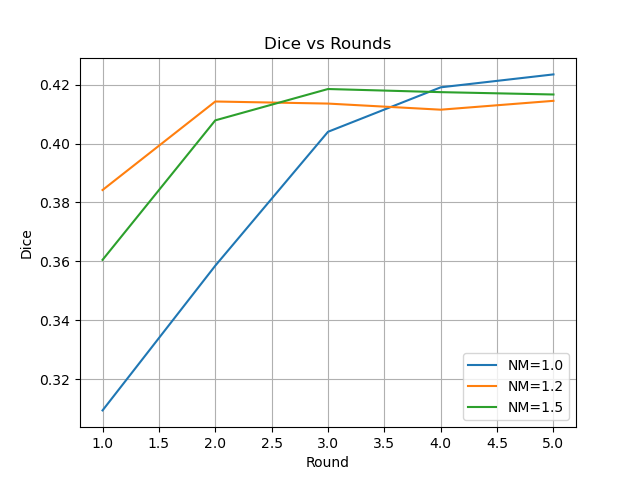
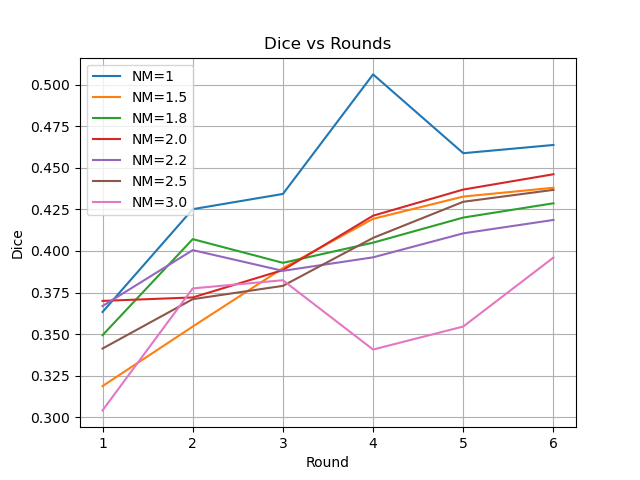
dp finie ?

diff --git a/dp_améliorée/client/client_1.py b/dp_améliorée/client/client_1.py
@@ -29,13 +29,14 @@ class DiceLoss(nn.Module):
 
 
 class FlowerClient(fl.client.NumPyClient):
-    def __init__(self,
-                 local_epochs=5,
-                 noise_multiplier=1.0,
-                 batch_size=8,
-                 max_grad_norm=0.8,
-                 lr=1e-3):
-
+    def __init__(
+        self,
+        local_epochs=1,
+        noise_multiplier=1.0,
+        batch_size=8,
+        max_grad_norm=0.8,
+        lr=1e-3
+    ):
         self.model = UNet().to(DEVICE)
 
         self.bce = nn.BCEWithLogitsLoss()
@@ -43,9 +44,9 @@ class FlowerClient(fl.client.NumPyClient):
         self.criterion = lambda p, t: 0.5 * self.bce(p, t) + 0.5 * self.dice_loss(p, t)
 
         self.train_dl, self.val_dl = get_dataloaders(
-            "multicenter/train/Dataset001_SierraLeone",
+            "multicenter/external/Dataset004_SierraLeone",
             batch_size=batch_size,
-            augment=False
+            augment=True
         )
 
         self.optimizer = optim.Adam(self.model.parameters(), lr=lr)
@@ -53,6 +54,7 @@ class FlowerClient(fl.client.NumPyClient):
             self.optimizer, mode='min', factor=0.5, patience=2, verbose=True
         )
 
+        # DP attributes
         self.privacy_engine = None
         self.dp_enabled = False
         self.noise_multiplier = noise_multiplier
@@ -69,11 +71,19 @@ class FlowerClient(fl.client.NumPyClient):
             p.data = torch.tensor(new, dtype=torch.float32).to(DEVICE)
 
     def fit(self, parameters, config):
+        # Récupération dynamique du noise_multiplier depuis le serveur
+        nm = config.get("noise_multiplier", self.noise_multiplier)
+        # Si le noise_multiplier a changé, réinitialiser la DP
+        if nm != self.noise_multiplier:
+            self.noise_multiplier = nm
+            self.dp_enabled = False
+
         self.set_parameters(parameters)
 
-        # Enable DP only once
+        # Activer DP si besoin
         if self.noise_multiplier > 0 and not self.dp_enabled:
-            self.model.train()  # Important for Opacus to insert hooks
+            self.model.train()  # Important pour Opacus
+            # (Ré)initialisation du PrivacyEngine avec le nouveau noise_multiplier
             self.privacy_engine = PrivacyEngine()
             self.model, self.optimizer, self.train_dl = self.privacy_engine.make_private(
                 module=self.model,
@@ -92,7 +102,7 @@ class FlowerClient(fl.client.NumPyClient):
 
         dice = evaluate(self.model, self.val_dl)
 
-        # ✅ Calcul correct d'ε sans redonner le sample_rate
+        # Calcul correct d'ε via l'accountant
         epsilon = (
             self.privacy_engine.accountant.get_epsilon(delta=1e-5)
             if self.privacy_engine else 0.0
@@ -114,10 +124,14 @@ class FlowerClient(fl.client.NumPyClient):
 
 if __name__ == "__main__":
     client = FlowerClient(
-        local_epochs=2,
-        noise_multiplier=1.0,   # à ajuster dynamiquement selon l'expérience
+        local_epochs=1,
+        noise_multiplier=1.0,   # Valeur par défaut
         batch_size=8,
         max_grad_norm=0.8,
         lr=1e-3,
     )
-    fl.client.start_client(server_address="localhost:8080", client=client.to_client())
+    try:
+        fl.client.start_client(server_address="localhost:8080", client=client.to_client())
+    except Exception as e:
+        print(f"[Client] Connection error: {e}")
+        sys.exit(1)

diff --git a/dp_améliorée/client/client_2.py b/dp_améliorée/client/client_2.py
@@ -29,13 +29,14 @@ class DiceLoss(nn.Module):
 
 
 class FlowerClient(fl.client.NumPyClient):
-    def __init__(self,
-                 local_epochs=5,
-                 noise_multiplier=1.0,
-                 batch_size=8,
-                 max_grad_norm=0.8,
-                 lr=1e-3):
-
+    def __init__(
+        self,
+        local_epochs=5,
+        noise_multiplier=1.0,
+        batch_size=8,
+        max_grad_norm=0.8,
+        lr=1e-3
+    ):
         self.model = UNet().to(DEVICE)
 
         self.bce = nn.BCEWithLogitsLoss()
@@ -53,6 +54,7 @@ class FlowerClient(fl.client.NumPyClient):
             self.optimizer, mode='min', factor=0.5, patience=2, verbose=True
         )
 
+        # DP attributes
         self.privacy_engine = None
         self.dp_enabled = False
         self.noise_multiplier = noise_multiplier
@@ -69,11 +71,19 @@ class FlowerClient(fl.client.NumPyClient):
             p.data = torch.tensor(new, dtype=torch.float32).to(DEVICE)
 
     def fit(self, parameters, config):
+        # Récupération dynamique du noise_multiplier depuis le serveur
+        nm = config.get("noise_multiplier", self.noise_multiplier)
+        # Si le noise_multiplier a changé, réinitialiser la DP
+        if nm != self.noise_multiplier:
+            self.noise_multiplier = nm
+            self.dp_enabled = False
+
         self.set_parameters(parameters)
 
-        # Enable DP only once
+        # Activer DP si besoin
         if self.noise_multiplier > 0 and not self.dp_enabled:
-            self.model.train()  # Important for Opacus to insert hooks
+            self.model.train()  # Important pour Opacus
+            # (Ré)initialisation du PrivacyEngine avec le nouveau noise_multiplier
             self.privacy_engine = PrivacyEngine()
             self.model, self.optimizer, self.train_dl = self.privacy_engine.make_private(
                 module=self.model,
@@ -92,7 +102,7 @@ class FlowerClient(fl.client.NumPyClient):
 
         dice = evaluate(self.model, self.val_dl)
 
-        # ✅ Calcul correct d'ε sans redonner le sample_rate
+        # Calcul correct d'ε via l'accountant
         epsilon = (
             self.privacy_engine.accountant.get_epsilon(delta=1e-5)
             if self.privacy_engine else 0.0
@@ -115,9 +125,13 @@ class FlowerClient(fl.client.NumPyClient):
 if __name__ == "__main__":
     client = FlowerClient(
         local_epochs=2,
-        noise_multiplier=1.0,   # à ajuster dynamiquement selon l'expérience
+        noise_multiplier=1.0,   # Valeur par défaut
         batch_size=8,
         max_grad_norm=0.8,
         lr=1e-3,
     )
-    fl.client.start_client(server_address="localhost:8080", client=client.to_client())
+    try:
+        fl.client.start_client(server_address="localhost:8080", client=client.to_client())
+    except Exception as e:
+        print(f"[Client] Connection error: {e}")
+        sys.exit(1)

diff --git a/dp_améliorée/client/client_3.py b/dp_améliorée/client/client_3.py
@@ -29,13 +29,14 @@ class DiceLoss(nn.Module):
 
 
 class FlowerClient(fl.client.NumPyClient):
-    def __init__(self,
-                 local_epochs=5,
-                 noise_multiplier=1.0,
-                 batch_size=8,
-                 max_grad_norm=0.8,
-                 lr=1e-3):
-
+    def __init__(
+        self,
+        local_epochs=5,
+        noise_multiplier=1.0,
+        batch_size=8,
+        max_grad_norm=0.8,
+        lr=1e-3
+    ):
         self.model = UNet().to(DEVICE)
 
         self.bce = nn.BCEWithLogitsLoss()
@@ -53,6 +54,7 @@ class FlowerClient(fl.client.NumPyClient):
             self.optimizer, mode='min', factor=0.5, patience=2, verbose=True
         )
 
+        # DP attributes
         self.privacy_engine = None
         self.dp_enabled = False
         self.noise_multiplier = noise_multiplier
@@ -69,11 +71,19 @@ class FlowerClient(fl.client.NumPyClient):
             p.data = torch.tensor(new, dtype=torch.float32).to(DEVICE)
 
     def fit(self, parameters, config):
+        # Récupération dynamique du noise_multiplier depuis le serveur
+        nm = config.get("noise_multiplier", self.noise_multiplier)
+        # Si le noise_multiplier a changé, réinitialiser la DP
+        if nm != self.noise_multiplier:
+            self.noise_multiplier = nm
+            self.dp_enabled = False
+
         self.set_parameters(parameters)
 
-        # Enable DP only once
+        # Activer DP si besoin
         if self.noise_multiplier > 0 and not self.dp_enabled:
-            self.model.train()  # Important for Opacus to insert hooks
+            self.model.train()  # Important pour Opacus
+            # (Ré)initialisation du PrivacyEngine avec le nouveau noise_multiplier
             self.privacy_engine = PrivacyEngine()
             self.model, self.optimizer, self.train_dl = self.privacy_engine.make_private(
                 module=self.model,
@@ -92,7 +102,7 @@ class FlowerClient(fl.client.NumPyClient):
 
         dice = evaluate(self.model, self.val_dl)
 
-        # ✅ Calcul correct d'ε sans redonner le sample_rate
+        # Calcul correct d'ε via l'accountant
         epsilon = (
             self.privacy_engine.accountant.get_epsilon(delta=1e-5)
             if self.privacy_engine else 0.0
@@ -115,9 +125,13 @@ class FlowerClient(fl.client.NumPyClient):
 if __name__ == "__main__":
     client = FlowerClient(
         local_epochs=2,
-        noise_multiplier=1.0,   # à ajuster dynamiquement selon l'expérience
+        noise_multiplier=1.0,   # Valeur par défaut
         batch_size=8,
         max_grad_norm=0.8,
         lr=1e-3,
     )
-    fl.client.start_client(server_address="localhost:8080", client=client.to_client())
+    try:
+        fl.client.start_client(server_address="localhost:8080", client=client.to_client())
+    except Exception as e:
+        print(f"[Client] Connection error: {e}")
+        sys.exit(1)

diff --git a/tableaucomparatif.py b/tableaucomparatif.py
@@ -1,0 +1,37 @@
+import pandas as pd
+import matplotlib.pyplot as plt
+import seaborn as sns
+
+# Consolidated table of final Dice and Epsilon (approx from earlier context)
+data = {
+    "Noise Multiplier": [1.0, 1.5, 1.8, 2.0, 2.2, 2.5, 3.0],
+    "Final Dice": [0.465, 0.438, 0.429, 0.445, 0.419, 0.435, 0.395],
+    "Final Epsilon (approx)": [8.2, 6.3, 5.0, 4.2, 3.8, 3.2, 2.5],
+    "Final Loss": [
+        0.5063,  # NM=1.0
+        0.5189,  # NM=1.5
+        0.5281,  # NM=1.8
+        0.5150,  # NM=2.0
+        0.5257,  # NM=2.2
+        0.5172,  # NM=2.5
+        0.5455   # NM=3.0
+    ]
+}
+
+df = pd.DataFrame(data)
+
+# Display the table
+import ace_tools as tools; tools.display_dataframe_to_user(name="Comparaison NM / Dice / Epsilon / Loss", dataframe=df)
+
+# Optional plot for visual comparison
+plt.figure(figsize=(10, 6))
+sns.lineplot(x="Noise Multiplier", y="Final Dice", data=df, marker='o', label="Final Dice")
+sns.lineplot(x="Noise Multiplier", y="Final Loss", data=df, marker='s', label="Final Loss")
+sns.lineplot(x="Noise Multiplier", y="Final Epsilon (approx)", data=df, marker='^', label="Epsilon")
+plt.title("Comparaison des performances selon le noise multiplier")
+plt.xlabel("Noise Multiplier")
+plt.ylabel("Valeurs")
+plt.grid(True)
+plt.legend()
+plt.tight_layout()
+plt.show()

diff --git a/dp_améliorée/server/server.py b/dp_améliorée/server/server.py
@@ -41,7 +41,7 @@ class SaveMetricsStrategy(fl.server.strategy.FedAvg):
 
 def main():
     # Liste des bruitages à tester
-    noise_multipliers = [1.0, 1.2, 1.5]
+    noise_multipliers = [1, 1.5, 1.8, 2.0, 2.2, 2.5, 3.0]
 
     all_losses = {}
     all_dices = {}
@@ -58,15 +58,15 @@ def main():
         strategy = SaveMetricsStrategy(
             noise_multiplier=nm,
             fraction_fit=1.0,
-            min_fit_clients=2,
-            min_available_clients=2,
+            min_fit_clients=3,
+            min_available_clients=3,
             on_fit_config_fn=send_config_fn,  # ← injection du noise
         )
 
         # Démarrer le serveur pour ce nm
         fl.server.start_server(
             server_address="localhost:8080",
-            config=fl.server.ServerConfig(num_rounds=5),
+            config=fl.server.ServerConfig(num_rounds=6),
             strategy=strategy,
         )
 

diff --git a/utils/dataset.py b/utils/dataset.py
@@ -33,7 +33,9 @@ class ClientDataset(Dataset):
             base_transforms += [
                 transforms.RandomHorizontalFlip(),
                 transforms.RandomRotation(20),
-                transforms.RandomResizedCrop((img_size, img_size), scale=(0.8, 1.0))
+                transforms.RandomResizedCrop((img_size, img_size), scale=(0.8, 1.0)),
+                transforms.ColorJitter(brightness=0.1, contrast=0.1),#amodif 
+                transforms.GaussianBlur(kernel_size=3)
             ]
 
         base_transforms += [
